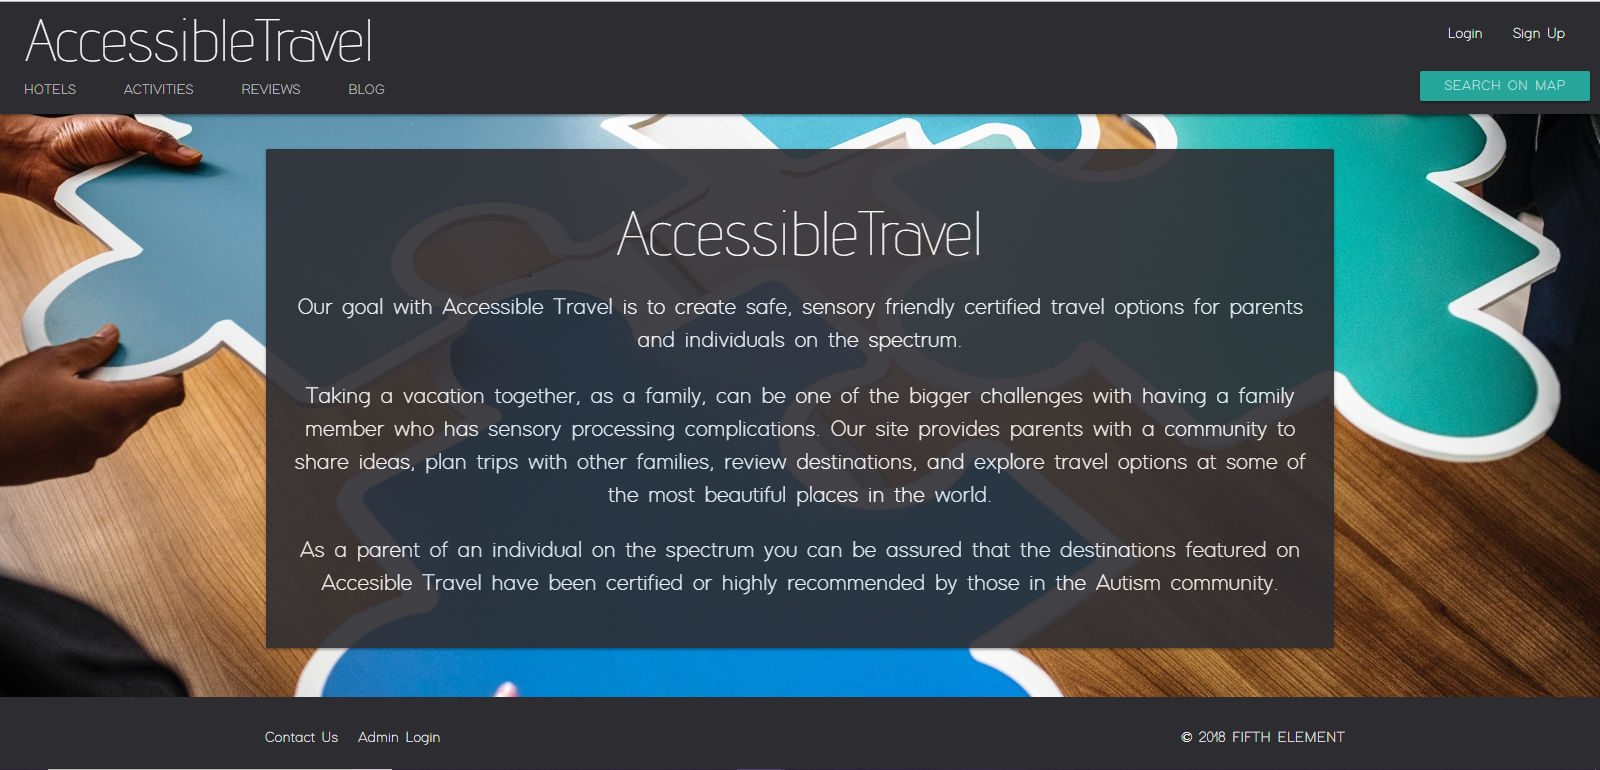
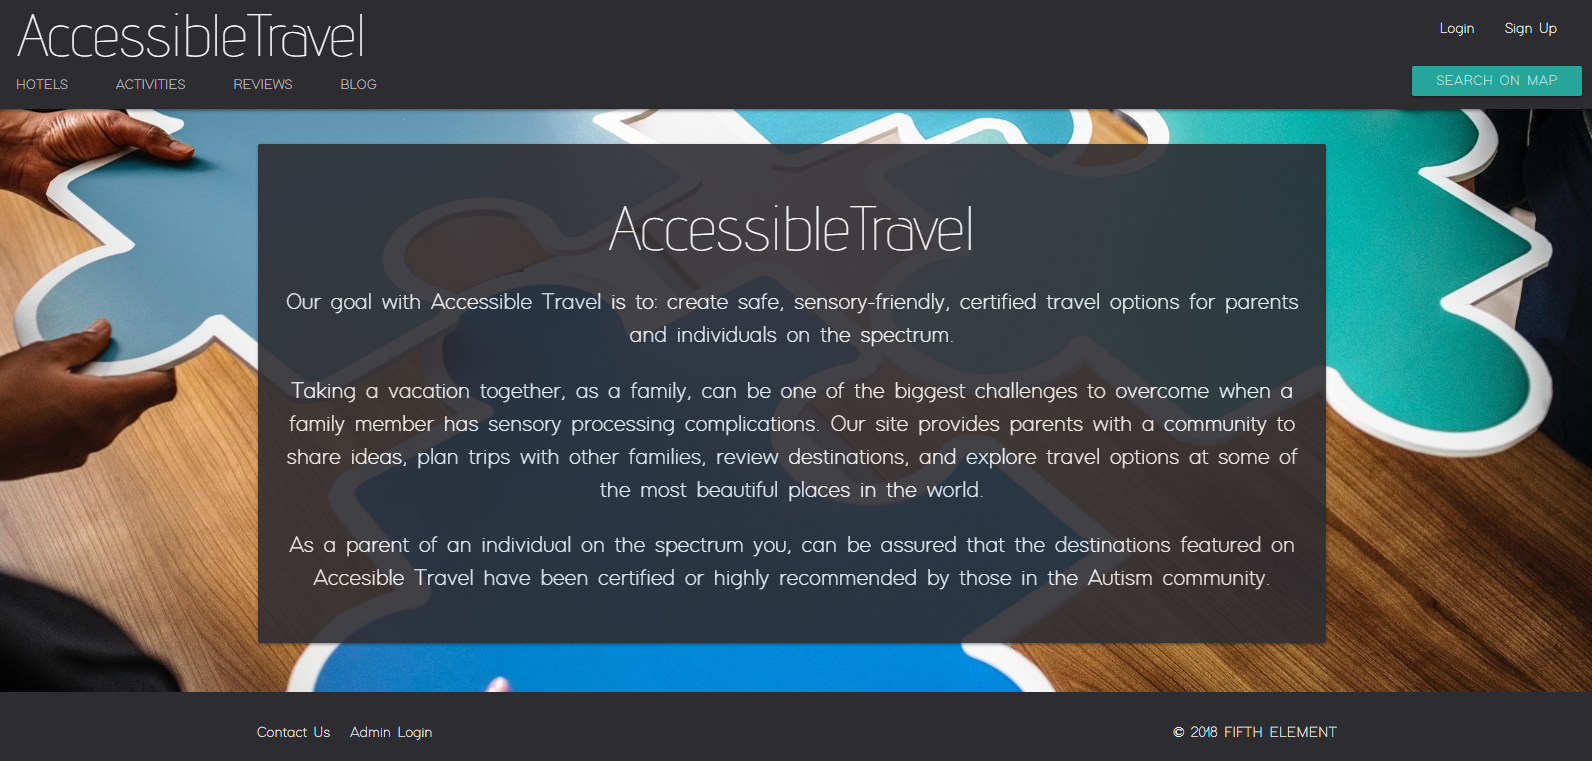
Update Screen Shot and Mission Statement.

diff --git a/client/src/pages/Home/Home.js b/client/src/pages/Home/Home.js
@@ -9,14 +9,11 @@ const Home = () => {
                 <div className="col s12">
                     <div className="card-panel mission">
                         <h1 className="brand-logo" id="mstitle">Accessible<span id="travel">Travel</span></h1>
-                        <p className="statement">Our goal with Accessible Travel is to create safe, sensory friendly certified travel options for
-                            parents and individuals on the spectrum.</p>
-                        <p className="statement">Taking a vacation together, as a family, can be one of the bigger challenges with having a family
-                            member who has sensory processing complications. Our site provides parents with a community to
-                            share ideas, plan trips with other families, review destinations, and explore travel options
-                            at some of the most beautiful places in the world.</p>
-                        <p className="statement">As a parent of an individual on the spectrum you can be assured that the destinations featured on
-                            Accesible Travel have been certified or highly recommended by those in the Autism community.</p>
+                        <p className="statement">Our goal with Accessible Travel is to: create safe, sensory-friendly, certified travel options for parents and individuals on the spectrum. </p>
+                        <p className="statement">Taking a vacation together, as a family, can be one of the biggest challenges to overcome when a family member  has sensory processing complications.
+ 
+ Our site provides parents with a community to share ideas, plan trips with other families, review destinations, and explore travel options at some of the most beautiful places in the world. </p>
+                        <p className="statement">As a parent of an individual on the spectrum you, can be assured that the destinations featured on Accesible Travel have been certified or highly recommended by those in the Autism community.</p>
                     </div>
                 </div>
             </div>

diff --git a/README.md b/README.md
@@ -1,10 +1,10 @@
 # 5thElement
-Our goal with Accessible travel is to: create safe, sensory friendly certified travel options for parents and individuals on the spectrum. 
+Our goal with Accessible Travel is to: create safe, sensory-friendly, certified travel options for parents and individuals on the spectrum. 
 
-Taking a vacation together, as a family, can be one of the bigger challenges with having a family member who has sensory processing complications.
+Taking a vacation together, as a family, can be one of the biggest challenges to overcome when a family member  has sensory processing complications.
  
  Our site provides parents with a community to share ideas, plan trips with other families, review destinations, and explore travel options at some of the most beautiful places in the world. 
 
-As a parent of an individual on the spectrum you can be assured that the destinations featured on Accesible Travel have been certified or highly recommended by those in the Autism community.
+As a parent of an individual on the spectrum you, can be assured that the destinations featured on Accesible Travel have been certified or highly recommended by those in the Autism community.
 
 ![Screenshot](/client/public/assets/images/screenShotReadme.PNG)
